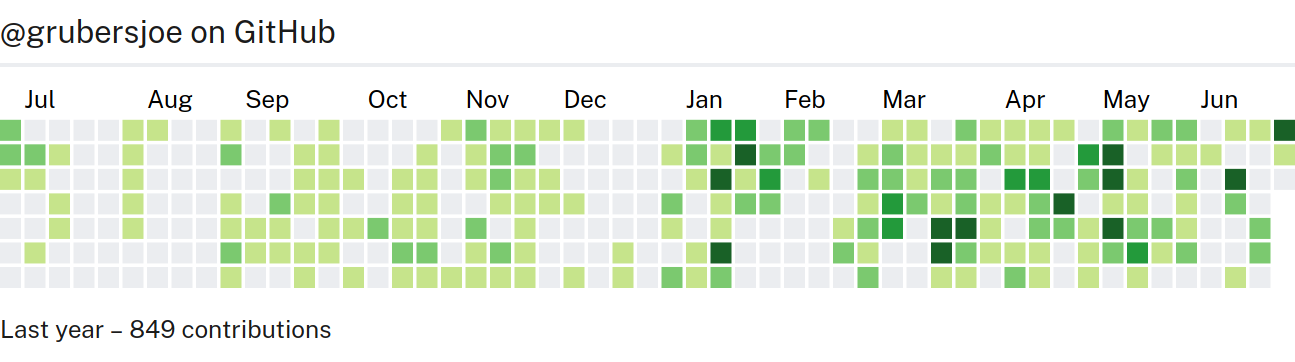
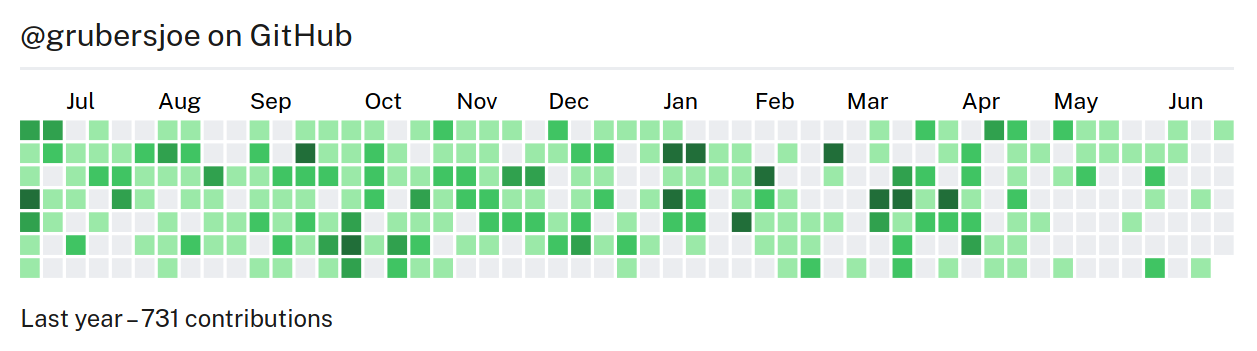
Update color map according to new GitHub design

diff --git a/src/utils/constants.ts b/src/utils/constants.ts
@@ -13,10 +13,10 @@ export type Theme = {
 export const DEFAULT_THEME = {
   background: 'transparent',
   text: '#000',
-  grade4: '#196127',
-  grade3: '#239a3b',
-  grade2: '#7bc96f',
-  grade1: '#c6e48b',
+  grade4: '#216e39',
+  grade3: '#30a14e',
+  grade2: '#40c463',
+  grade1: '#9be9a8',
   grade0: '#ebedf0',
 };
 

diff --git a/README.md b/README.md
@@ -2,7 +2,7 @@
 
 A React component to display a GitHub contributions graph based on SVG.
 
-![Screenshot](preview.png#1)
+![Screenshot](preview.png#2)
 
 [Demo and documentation](https://grubersjoe.github.io/react-github-calendar/)
 
